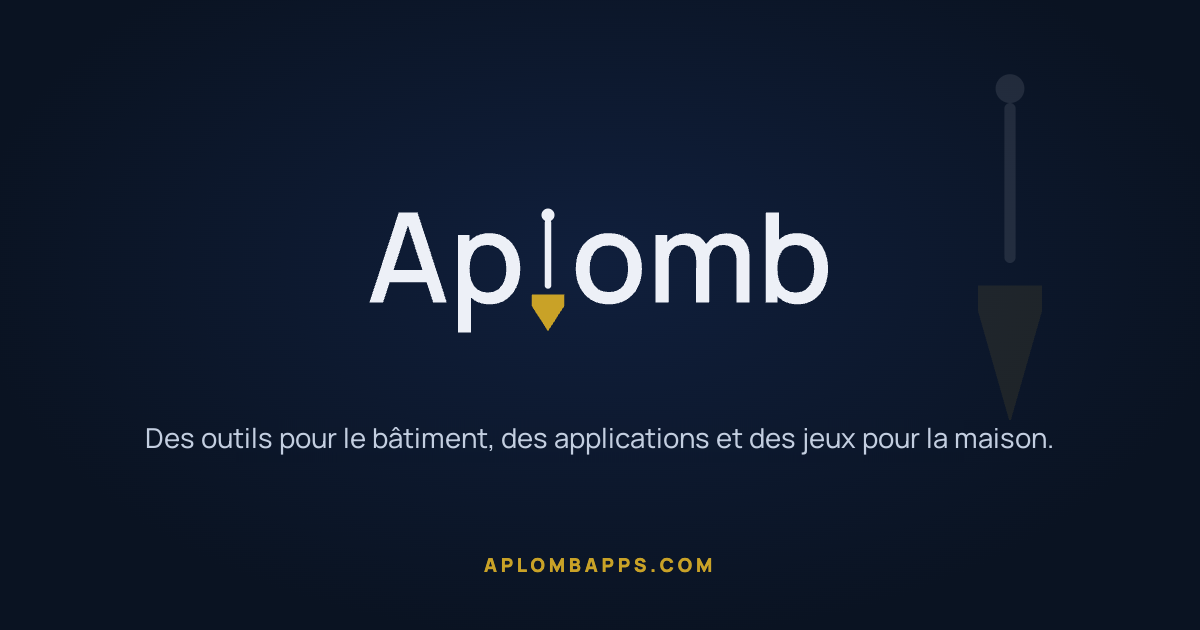
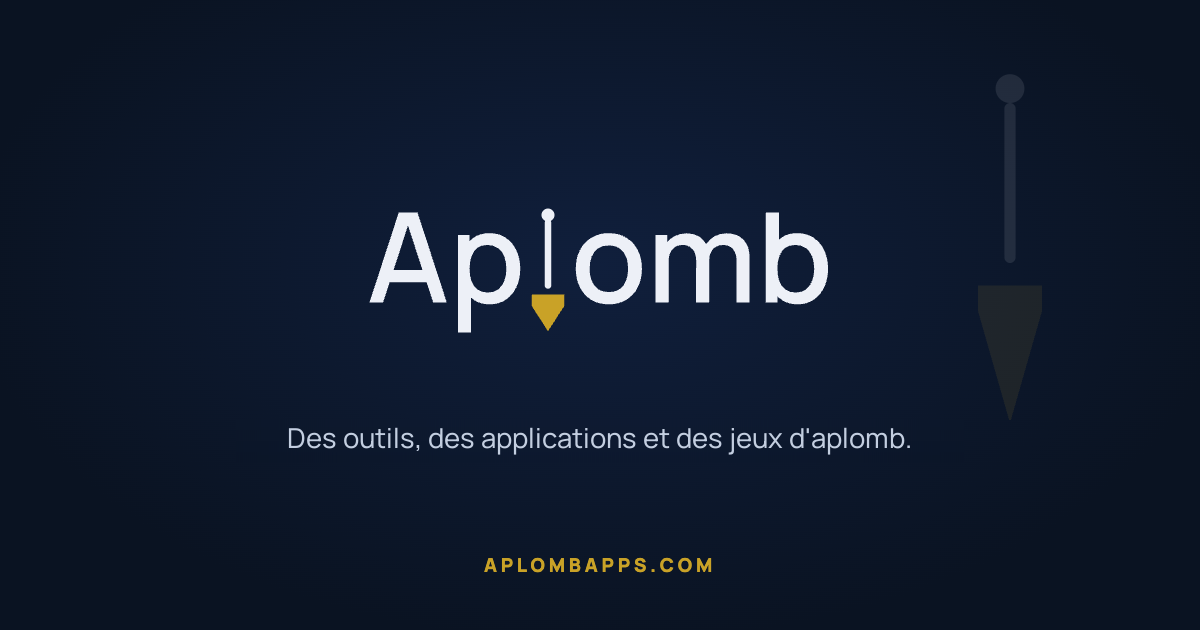
Aperçu de partage : phrase raccourcie sur l'image

Changed region(s): [[0.1233, 0.6635, 0.8633, 0.7238]]

diff --git a/index.html b/index.html
@@ -11,7 +11,7 @@
 <meta property="og:title" content="Aplomb — studio d'applications">
 <meta property="og:description" content="Des outils d'aplomb pour le bâtiment, des applications et des jeux pour la maison. La justesse, en toute sérénité.">
 <meta property="og:url" content="https://aplombapps.com/">
-<meta property="og:image" content="https://aplombapps.com/og-image-1200x630.png?v=2">
+<meta property="og:image" content="https://aplombapps.com/og-image-1200x630.png?v=3">
 <meta property="og:locale" content="fr_FR">
 <meta name="twitter:card" content="summary_large_image">
 <link rel="icon" href="favicon.svg" type="image/svg+xml">
